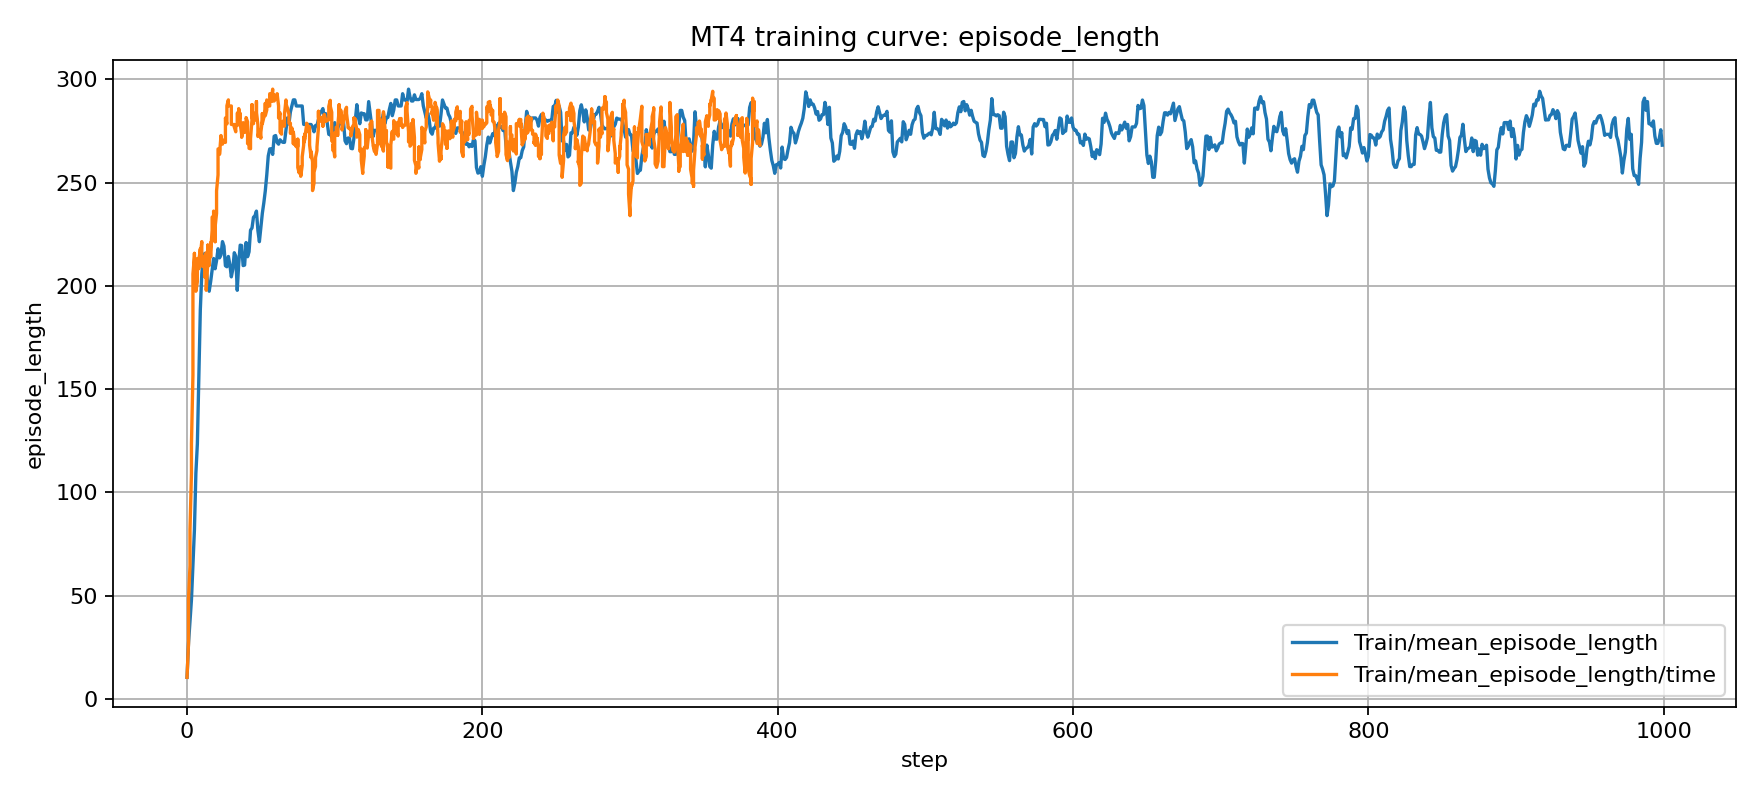
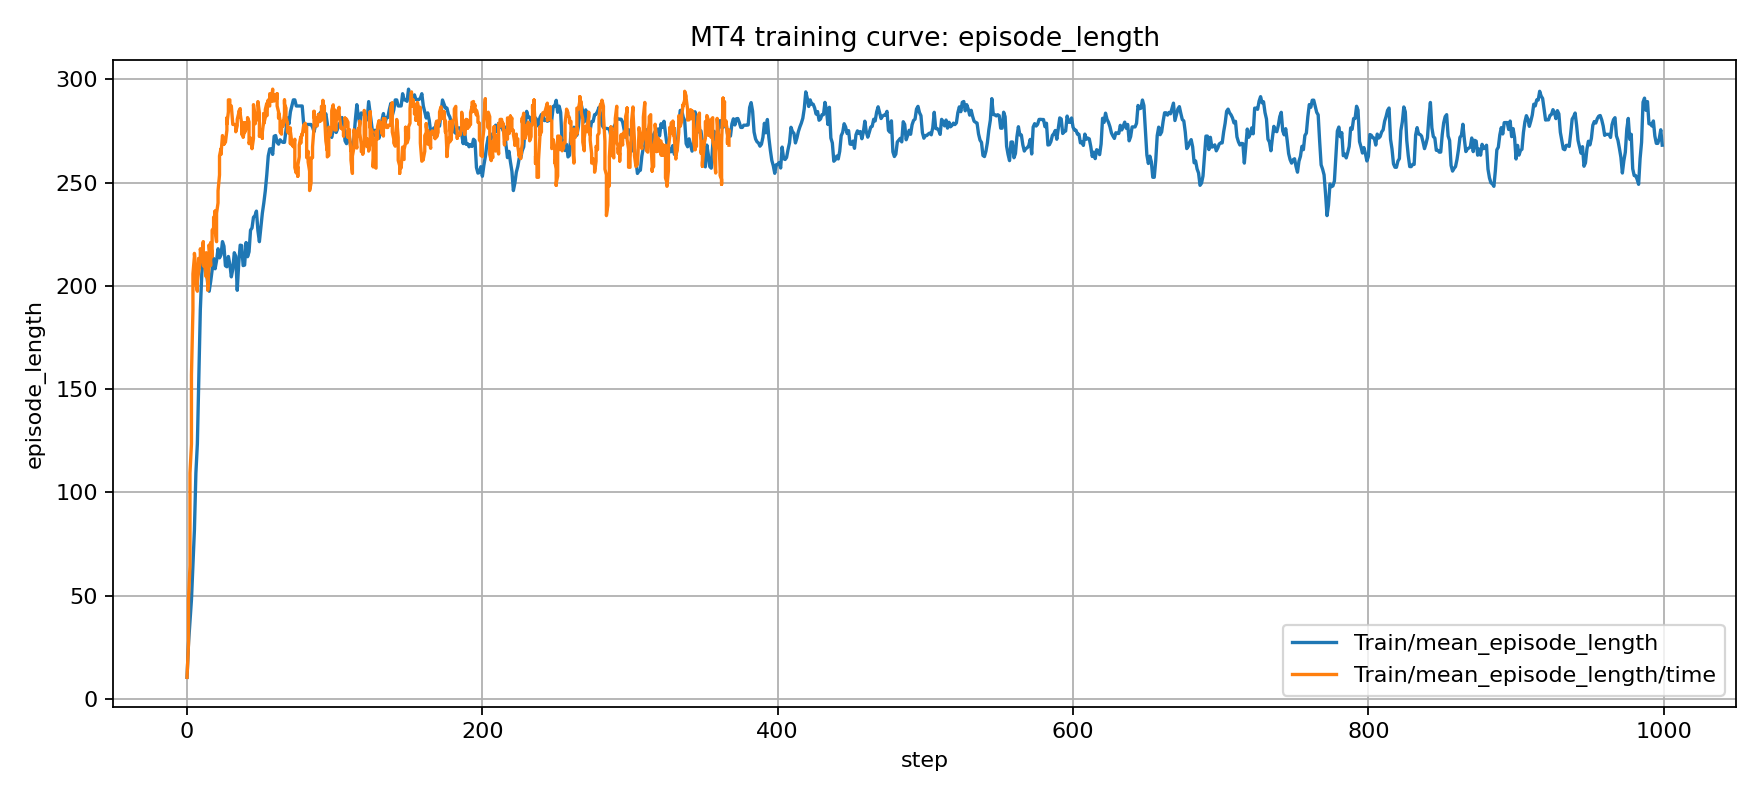
Stabilize MT4 reach baseline selection

Changed region(s): [[0.125, 0.125, 0.4375, 0.2812]]

diff --git a/tools/select_best_mt4_checkpoint.py b/tools/select_best_mt4_checkpoint.py
@@ -1,6 +1,5 @@
 from pathlib import Path
 import csv
-import math
 
 PLOTS_DIR = Path.home() / "work/robotarm/mt4_isaac_lab_task/logs/plots"
 CSV_PATH = PLOTS_DIR / "mt4_checkpoint_summary.csv"
@@ -29,10 +28,12 @@ with CSV_PATH.open("r", encoding="utf-8") as f:
 if not rows:
     raise SystemExit("[ERROR] no rows in checkpoint summary")
 
-# success_rate가 있는 경우 success_rate 최대값 기준
+# success_rate가 거의 0에 가까운 reach 초기 실험에서는 우연한 초기 성공이
+# best checkpoint를 왜곡할 수 있다. 이 경우 mean_distance를 우선한다.
 rows_with_success = [r for r in rows if r["_success_rate"] is not None]
+max_success_rate = max((r["_success_rate"] for r in rows_with_success), default=None)
 
-if rows_with_success:
+if rows_with_success and max_success_rate is not None and max_success_rate >= 0.01:
     best = max(
         rows_with_success,
         key=lambda r: (
@@ -41,12 +42,19 @@ if rows_with_success:
             -9999.0 if r["_mean_reward"] is None else r["_mean_reward"],
         ),
     )
-    reason = "highest success_rate"
+    reason = "highest meaningful success_rate"
 else:
     rows_with_distance = [r for r in rows if r["_mean_distance"] is not None]
     if rows_with_distance:
-        best = min(rows_with_distance, key=lambda r: r["_mean_distance"])
-        reason = "lowest mean_distance"
+        best = min(
+            rows_with_distance,
+            key=lambda r: (
+                r["_mean_distance"],
+                -9999.0 if r["_success_rate"] is None else -r["_success_rate"],
+                -9999.0 if r["_mean_reward"] is None else -r["_mean_reward"],
+            ),
+        )
+        reason = "lowest mean_distance because success_rate is below 0.01"
     else:
         rows_with_reward = [r for r in rows if r["_mean_reward"] is not None]
         if rows_with_reward:

diff --git a/notes/github_workflow.md b/notes/github_workflow.md
@@ -48,6 +48,7 @@ git push origin main
 
 - Shell script 변경 시 `bash -n scripts/*.sh`가 통과해야 합니다.
 - `scripts/plot_and_select_best.sh`가 실행되어 plot과 `best_checkpoint.txt`를 만들 수 있어야 합니다.
+- 실시간 학습 그래프는 `scripts/tensorboard_mt4.sh`로 확인합니다.
 - 실험 결과를 보존할 때는 `scripts/record_experiment_result.sh`로 `experiments/mt4_reach_experiment_log.csv`에 기록합니다.
 - `best_checkpoint.txt`가 비어 있거나 checkpoint 경로가 깨져 있으면 push 전에 고칩니다.
 - `train_128_1000.sh`와 `play_best.sh`는 Isaac Sim 실행 시간이 길 수 있으므로 기본 자동 검증에서는 실행하지 않습니다.